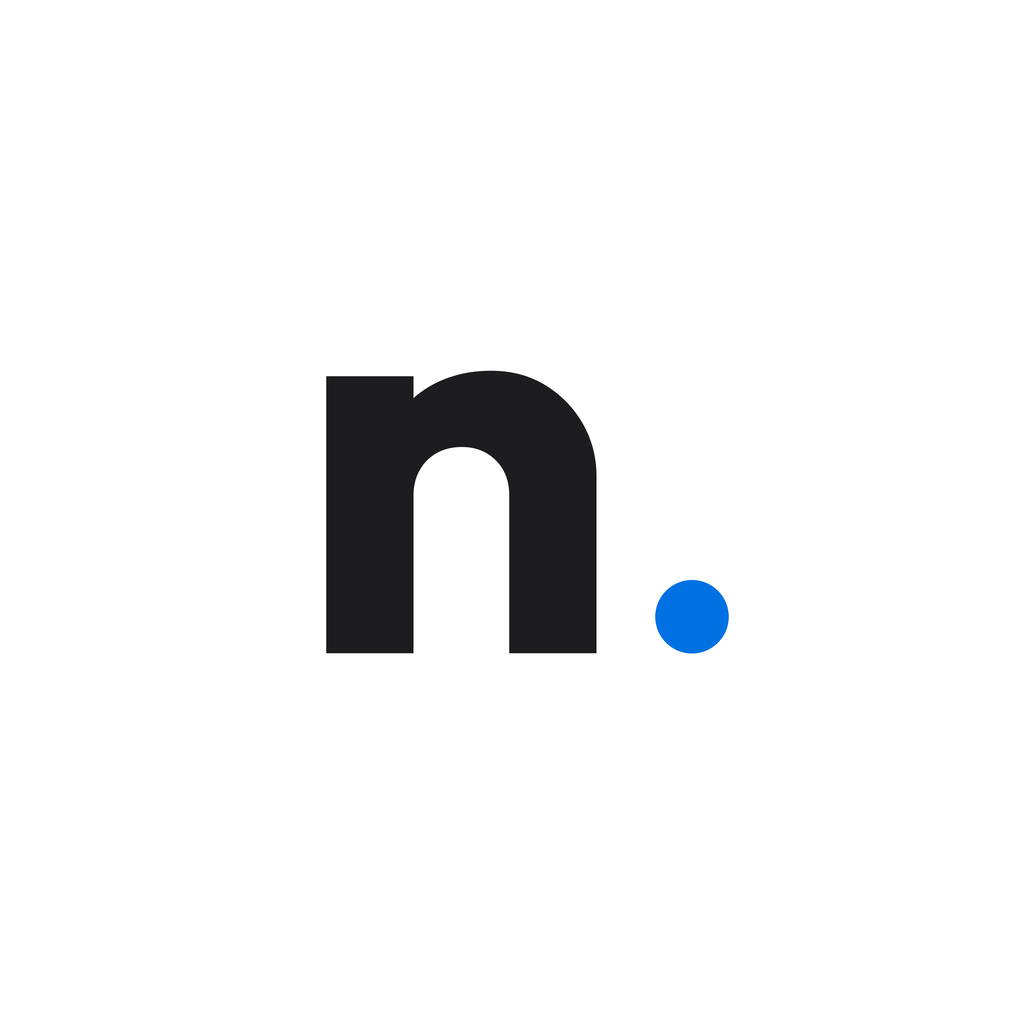
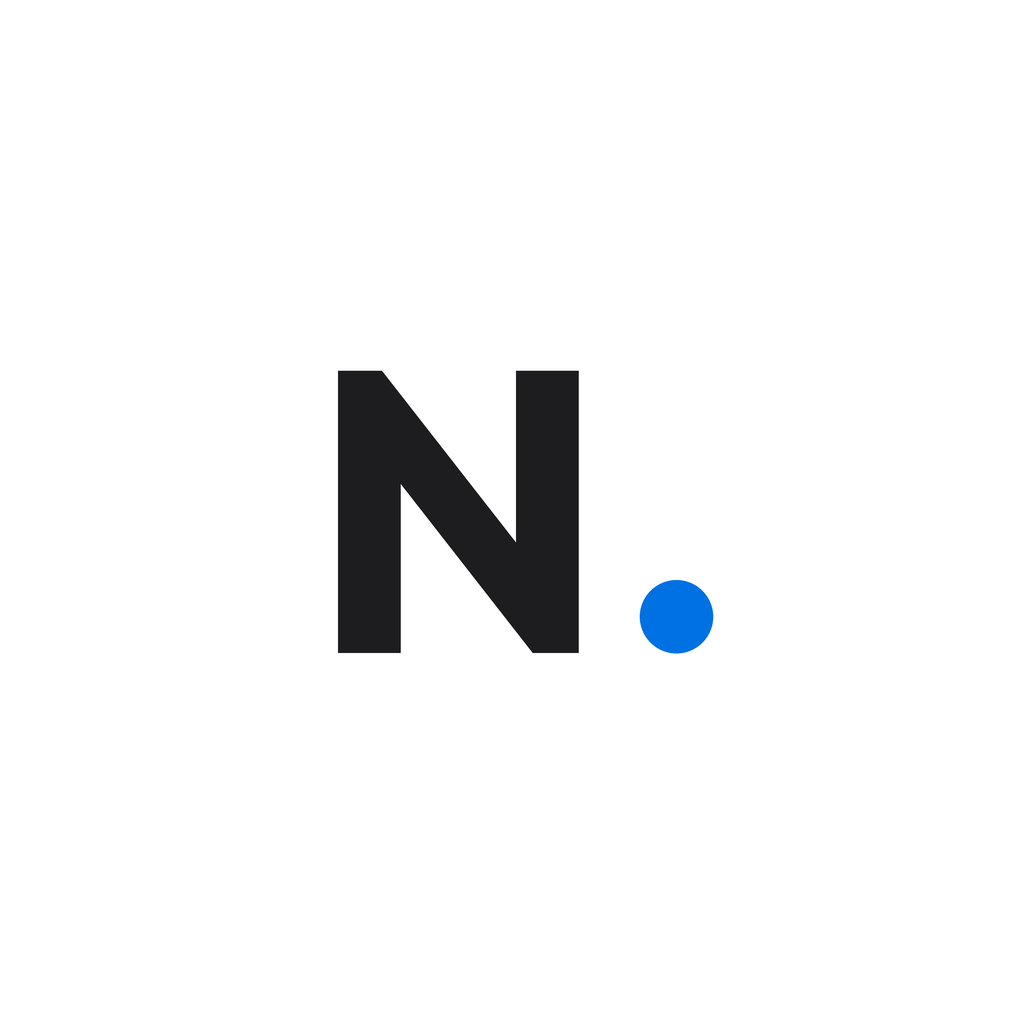
Set display brand name to "Noel"; keep noelapp as the technical handle
The user-facing platform name is "Noel"; "noelapp" remains only as the app/repo/
domain handle. Change every display mention noelapp -> Noel while preserving the
technical identifiers that must not change.

Display -> "Noel":
- app.config.ts name: 'noelapp' -> 'Noel' (iOS home-screen label)
- iOS permission strings, in-app wordmarks, labels, share messages, account copy
- App Store / Play Store listings, privacy & support pages, backup/mint docs, comments

Kept as noelapp (technical):
- slug, scheme (noelapp://auth-callback), bundle id com.noelapp.app
- website noelapp.com, GitHub Pages URLs (ishlokchavan.github.io/noelapp/*)
- Supabase project, storage keys, repo name

Brand art regenerated to match the new name:
- icon.png / adaptive-icon.png / favicon.png: "N." monogram (ink + accent dot)
- splash.png: centred "Noel" wordmark

Also fix a stale README OAuth redirect (iclose:// -> noelapp://) missed earlier.

Note: the running dev build still shows the old "iC." icon because app icon and
splash are baked into the native binary — a fresh `eas build` / dev-client
rebuild is required to pick up the new assets.

Claude-Session: https://claude.ai/code/session_01BVh2YBa4MdEQZcMvKio6X5

diff --git a/app/property/[reference].tsx b/app/property/[reference].tsx
@@ -55,7 +55,7 @@ export default function PropertyScreen() {
   function openWhatsApp() {
     track('whatsapp', listing!);
     const text = encodeURIComponent(
-      `Hi, I'm interested in ${listing!.title} (${listing!.reference}) on noelapp.\n${listingUrl(listing!.reference)}`,
+      `Hi, I'm interested in ${listing!.title} (${listing!.reference}) on Noel.\n${listingUrl(listing!.reference)}`,
     );
     Linking.openURL(`https://wa.me/${CONTACT_WHATSAPP.replace(/[^0-9]/g, '')}?text=${text}`).catch(() => {});
   }
@@ -91,7 +91,7 @@ export default function PropertyScreen() {
           </Pressable>
           <View style={{ top: insets.top + 8 }} className="absolute right-4 flex-row gap-2">
             <Pressable
-              onPress={() => { track('share', listing); Share.share({ message: `${listing.title} — ${formatAed(listing.priceAed)} on noelapp\n${listingUrl(listing.reference)}` }).catch(() => {}); }}
+              onPress={() => { track('share', listing); Share.share({ message: `${listing.title} — ${formatAed(listing.priceAed)} on Noel\n${listingUrl(listing.reference)}` }).catch(() => {}); }}
               className="h-11 w-11 items-center justify-center rounded-full bg-black/35">
               <Share2 size={20} color="#fff" />
             </Pressable>
@@ -125,11 +125,11 @@ export default function PropertyScreen() {
               <View className="h-10 w-10 items-center justify-center rounded-full bg-accent/15"><Coins size={20} color={colors.accent} /></View>
               <View className="flex-1">
                 <Text className="text-xs text-graphite">Buy this home and get</Text>
-                <Text className="text-xl font-bold text-accent">{formatCredits(listing.credit.credits)} noelapp credits</Text>
+                <Text className="text-xl font-bold text-accent">{formatCredits(listing.credit.credits)} Noel credits</Text>
               </View>
             </View>
             <Text className="border-t border-accent/15 px-4 py-2.5 text-xs text-graphite">
-              Credits are yours to keep and spend on noelapp — that's the commission you'd normally lose.
+              Credits are yours to keep and spend on Noel — that's the commission you'd normally lose.
             </Text>
           </View>
 
@@ -197,7 +197,7 @@ export default function PropertyScreen() {
               </Text>
             </View>
             <View className="flex-1">
-              <Text className="text-[15px] font-medium text-ink" numberOfLines={1}>{listing.agentName ?? listing.developerName ?? 'noelapp listing'}</Text>
+              <Text className="text-[15px] font-medium text-ink" numberOfLines={1}>{listing.agentName ?? listing.developerName ?? 'Noel listing'}</Text>
               <Text className="text-[13px] text-graphite" numberOfLines={1}>
                 {listing.agencyName ?? (listing.source === 'owner' ? 'Listed by owner · commission-free' : 'Developer direct')}
               </Text>

diff --git a/app.config.ts b/app.config.ts
@@ -1,14 +1,14 @@
 import type { ExpoConfig } from 'expo/config';
 
 /**
- * noelapp — native app config.
+ * Noel — native app config.
  * Bundle id com.noelapp.app (reverse-DNS of noelapp.com). Custom scheme `noelapp`
  * powers OAuth deep links (noelapp://auth-callback).
  * Brand-new App Store app — distinct from the legacy iClose app (ae.iclose.app),
  * which stays live. Backend (iclose-academy-db Supabase + iclose.ae API) is shared.
  */
 const config: ExpoConfig = {
-  name: 'noelapp',
+  name: 'Noel',
   slug: 'noelapp',
   // owner cleared for the new app — `eas init` associates it with your Expo account.
   scheme: 'noelapp',
@@ -35,7 +35,7 @@ const config: ExpoConfig = {
     config: { usesNonExemptEncryption: false },
     infoPlist: {
       NSLocationWhenInUseUsageDescription:
-        'noelapp uses your location to show nearby homes on the map.',
+        'Noel uses your location to show nearby homes on the map.',
     },
   },
   android: {
@@ -54,13 +54,13 @@ const config: ExpoConfig = {
     'expo-router',
     'expo-secure-store',
     'expo-video',
-    ['expo-image-picker', { photosPermission: 'noelapp needs access to your photos so you can add them to your property listing.' }],
+    ['expo-image-picker', { photosPermission: 'Noel needs access to your photos so you can add them to your property listing.' }],
     ['expo-splash-screen', { backgroundColor: '#ffffff', image: './assets/splash.png', resizeMode: 'contain' }],
   ],
   experiments: { typedRoutes: true },
   extra: {
     apiBaseUrl: process.env.EXPO_PUBLIC_API_BASE_URL ?? 'https://iclose.ae',
-    // Live noelapp database (iclose-academy-db). The anon key is a publishable,
+    // Live Noel database (iclose-academy-db). The anon key is a publishable,
     // RLS-protected client key — safe to ship, same as the web app.
     supabaseUrl:
       process.env.EXPO_PUBLIC_SUPABASE_URL ?? 'https://nnkicmfsdbfpucfcnutn.supabase.co',

diff --git a/src/components/IntroStory.tsx b/src/components/IntroStory.tsx
@@ -21,7 +21,7 @@ const DO_CARDS = [
 
 const USPS = [
   { Icon: BadgePercent, title: 'Zero commission', line: 'Buy, sell or close — you never pay a cut.' },
-  { Icon: Coins, title: 'Cashback credits', line: 'Earn noelapp credits worth real money on every deal.' },
+  { Icon: Coins, title: 'Cashback credits', line: 'Earn Noel credits worth real money on every deal.' },
   { Icon: ShieldCheck, title: 'Verified listings', line: 'Real, RERA-checked homes. No fake leads.' },
   { Icon: Building2, title: 'Off-plan launches', line: 'Early access and special pricing on new launches.' },
 ];
@@ -79,7 +79,7 @@ export function IntroStory({ onDone }: { onDone?: () => void }) {
             <View style={{ paddingTop: insets.top + 72 }}>
               {item === 'hero' ? (
                 <>
-                  <Text className="text-[17px] font-medium text-ink/40">noelapp</Text>
+                  <Text className="text-[17px] font-medium text-ink/40">Noel</Text>
                   <Text className="mt-8 text-[38px] font-normal leading-tight text-ink">
                     Never pay commission to <Text className="font-bold">buy</Text>, <Text className="font-bold">sell</Text>, or <Text className="font-bold">close</Text> ever again.
                   </Text>
@@ -110,7 +110,7 @@ export function IntroStory({ onDone }: { onDone?: () => void }) {
                 </>
               ) : (
                 <>
-                  <Text className="text-[28px] font-semibold leading-tight text-ink">Why noelapp?</Text>
+                  <Text className="text-[28px] font-semibold leading-tight text-ink">Why Noel?</Text>
                   <Text className="mt-2 text-[15px] text-ink/50">Built to put money back in your pocket.</Text>
                   <View className="mt-6 gap-3">
                     {USPS.map(({ Icon, title, line }) => (

diff --git a/docs/support.html b/docs/support.html
@@ -3,7 +3,7 @@
 <head>
   <meta charset="utf-8" />
   <meta name="viewport" content="width=device-width, initial-scale=1" />
-  <title>noelapp — Support</title>
+  <title>Noel — Support</title>
   <style>
     body { margin: 0; background: #fbfbfd; color: #1d1d1f; font: 16px/1.6 -apple-system, BlinkMacSystemFont, "Segoe UI", Roboto, Helvetica, Arial, sans-serif; }
     main { max-width: 680px; margin: 0 auto; padding: 56px 22px; }
@@ -14,8 +14,8 @@
 </head>
 <body>
   <main>
-    <h1>noelapp Support</h1>
-    <p>Discover UAE homes and earn noelapp credits. We’re happy to help.</p>
+    <h1>Noel Support</h1>
+    <p>Discover UAE homes and earn Noel credits. We’re happy to help.</p>
     <div class="card">
       <p><strong>Email:</strong> <a href="mailto:support@iclose.ae">support@iclose.ae</a></p>
       <p><strong>Website:</strong> <a href="https://iclose.ae">iclose.ae</a></p>
@@ -25,7 +25,7 @@
       <p><strong>How do I delete my account?</strong> In the app: Profile → Delete account.</p>
       <p><strong>How do I sign in?</strong> Use Apple, Google, or email on the Profile tab. You can also browse listings without an account.</p>
     </div>
-    <p style="margin-top:24px;color:#6e6e73;font-size:14px;">© noelapp</p>
+    <p style="margin-top:24px;color:#6e6e73;font-size:14px;">© Noel</p>
   </main>
 </body>
 </html>

diff --git a/docs/privacy-policy.html b/docs/privacy-policy.html
@@ -3,7 +3,7 @@
 <head>
   <meta charset="utf-8" />
   <meta name="viewport" content="width=device-width, initial-scale=1" />
-  <title>noelapp — Privacy Policy</title>
+  <title>Noel — Privacy Policy</title>
   <style>
     :root { color-scheme: light; }
     body { margin: 0; background: #fbfbfd; color: #1d1d1f; font: 16px/1.6 -apple-system, BlinkMacSystemFont, "Segoe UI", Roboto, Helvetica, Arial, sans-serif; }
@@ -19,9 +19,9 @@
 <body>
   <main>
     <h1>Privacy Policy</h1>
-    <p class="muted">noelapp · Last updated 25 June 2026</p>
+    <p class="muted">Noel · Last updated 25 June 2026</p>
 
-    <p>This Privacy Policy explains how the noelapp mobile app (“noelapp”, “we”, “us”) handles your
+    <p>This Privacy Policy explains how the Noel mobile app (“Noel”, “we”, “us”) handles your
     information. By using the app you agree to this policy.</p>
 
     <h2>Information we collect</h2>
@@ -66,7 +66,7 @@
     associated personal data and cannot be undone.</p>
 
     <h2>Children</h2>
-    <p>noelapp is not directed to children under 13 (or the minimum age in your country) and we do
+    <p>Noel is not directed to children under 13 (or the minimum age in your country) and we do
     not knowingly collect their data.</p>
 
     <h2>Your rights</h2>

diff --git a/app/(tabs)/profile.tsx b/app/(tabs)/profile.tsx
@@ -123,7 +123,7 @@ export default function ProfileScreen() {
   function confirmDelete() {
     Alert.alert(
       'Delete account',
-      'This permanently deletes your noelapp account and your saved data. This cannot be undone.',
+      'This permanently deletes your Noel account and your saved data. This cannot be undone.',
       [
         { text: 'Cancel', style: 'cancel' },
         { text: 'Delete account', style: 'destructive', onPress: deleteAccount },
@@ -205,7 +205,7 @@ export default function ProfileScreen() {
 
       {/* Credits balance */}
       <View className="mb-4 rounded-apple border border-white/60 bg-white/70 p-5">
-        <View className="flex-row items-center gap-2"><Coins size={16} color={colors.accent} /><Text className="text-[13px] text-graphite">noelapp credits balance</Text></View>
+        <View className="flex-row items-center gap-2"><Coins size={16} color={colors.accent} /><Text className="text-[13px] text-graphite">Noel credits balance</Text></View>
         <Text className="mt-1.5 text-[34px] font-semibold text-ink">0</Text>
         {pendingCredits > 0 ? <Text className="mt-1 text-[13px] text-graphite">{formatCredits(pendingCredits)} credits waiting across your shortlist</Text> : null}
       </View>

diff --git a/app/sell.tsx b/app/sell.tsx
@@ -127,7 +127,7 @@ export default function SellScreen() {
           <View className="h-16 w-16 items-center justify-center rounded-full bg-journey-listing/30"><Home size={30} color={colors.ink} /></View>
           <Text className="text-center text-2xl font-bold text-ink">List your home, commission-free</Text>
           <Text className="text-center text-base text-graphite">
-            Add your photos and ownership documents securely — it all happens through noelapp. Our team verifies and publishes your home.
+            Add your photos and ownership documents securely — it all happens through Noel. Our team verifies and publishes your home.
           </Text>
           {ready && !identity ? (
             <Pressable onPress={() => { router.back(); router.push('/(tabs)/profile'); }} className="mt-2 w-full flex-row items-center justify-center gap-2 rounded-apple bg-ink py-4">

diff --git a/app/_layout.tsx b/app/_layout.tsx
@@ -46,7 +46,7 @@ export default function RootLayout() {
                   <Stack.Screen name="sell" options={{ presentation: 'modal' }} />
                   <Stack.Screen name="my-listings" options={{ presentation: 'card', animation: 'slide_from_right' }} />
                   <Stack.Screen name="saved" options={{ presentation: 'modal' }} />
-                  {/* noelapp Shares (tokenized real estate) */}
+                  {/* Noel Shares (tokenized real estate) */}
                   <Stack.Screen name="shares/[symbol]" options={{ presentation: 'card', animation: 'slide_from_right' }} />
                   <Stack.Screen name="shares/market" options={{ presentation: 'card', animation: 'slide_from_right' }} />
                   <Stack.Screen name="shares/portfolio" options={{ presentation: 'card', animation: 'slide_from_right' }} />

diff --git a/app/shares/[symbol].tsx b/app/shares/[symbol].tsx
@@ -280,7 +280,7 @@ export default function ShareDetailScreen() {
               <View className="mt-2 rounded-apple border border-white/60 bg-white/75 p-4">
                 <FeeRow label="Share amount" value={formatAed(fees.amount)} />
                 <FeeRow label="Purchase costs (3%)" value={formatAed(fees.purchaseCosts)} />
-                <FeeRow label="noelapp platform fee (1.5%)" value={formatAed(fees.platformFee)} />
+                <FeeRow label="Noel platform fee (1.5%)" value={formatAed(fees.platformFee)} />
                 <FeeRow label="DLD transfer fee (2%)" value={formatAed(fees.dldDiscounted)} strike={formatAed(fees.dldFull)} />
                 <View className="my-2 h-px bg-hairline/60" />
                 <FeeRow label="Total" value={formatAed(fees.total)} bold />

diff --git a/app/shares/ledger.tsx b/app/shares/ledger.tsx
@@ -47,7 +47,7 @@ export default function LedgerExplorer() {
         <View className="mx-4 mt-2 rounded-apple border border-white/60 bg-white/80 p-4">
           <View className="flex-row items-center gap-2">
             <Boxes size={16} color={colors.accent} />
-            <Text className="text-[13px] font-semibold text-ink">noelapp Shares chain</Text>
+            <Text className="text-[13px] font-semibold text-ink">Noel Shares chain</Text>
             <View className="ml-auto flex-row items-center gap-1 rounded-full bg-emerald-500/12 px-2 py-0.5">
               <ShieldCheck size={12} color="#059669" /><Text className="text-[10.5px] font-semibold text-emerald-700">Hash-linked</Text>
             </View>

diff --git a/src/lib/config.ts b/src/lib/config.ts
@@ -3,7 +3,7 @@ import Constants from 'expo-constants';
 const extra = (Constants.expoConfig?.extra ?? {}) as Record<string, string>;
 
 /**
- * Defaults point at the live noelapp database (iclose-academy-db). The Supabase
+ * Defaults point at the live Noel database (iclose-academy-db). The Supabase
  * anon key is a publishable client key — protected by row-level security — so it
  * ships in the app the same way it does on the web. Override any value via .env
  * (EXPO_PUBLIC_*) for a different environment.

diff --git a/src/components/CreditBadge.tsx b/src/components/CreditBadge.tsx
@@ -3,7 +3,7 @@ import { Coins } from 'lucide-react-native';
 import type { CreditAward } from '@/types/listing';
 import { credits } from '@/lib/format';
 
-/** The signature noelapp hook: commission you'd have paid, returned as credits. */
+/** The signature Noel hook: commission you'd have paid, returned as credits. */
 export function CreditBadge({ award, large = false }: { award: CreditAward; large?: boolean }) {
   return (
     <View
